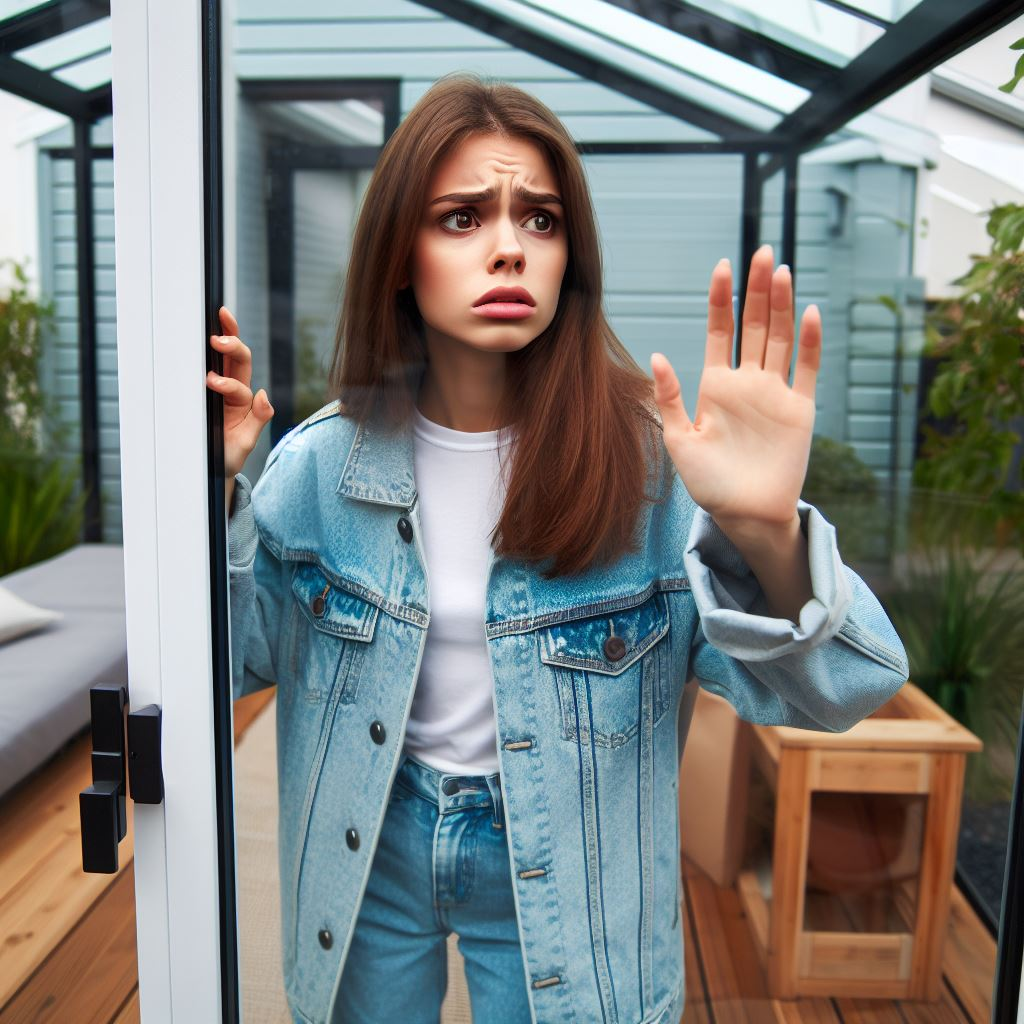
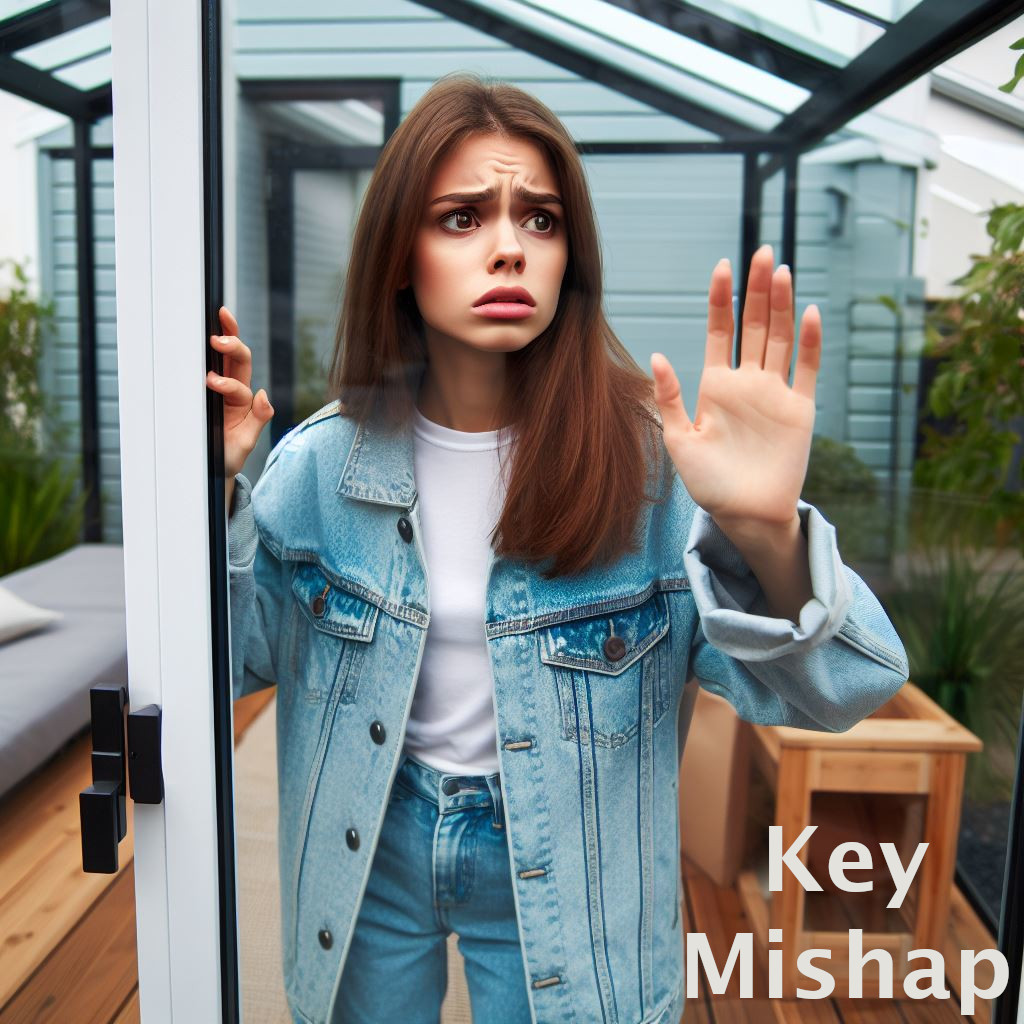
Switch to first three pre-release

Changed region(s): [[0.6562, 0.9062, 1.0, 1.0], [0.75, 0.8125, 0.9062, 0.875]]

diff --git a/index.html b/index.html
@@ -24,41 +24,25 @@
 
 <main>
     <section class="audio-play">
-        <img src="images/Banksy Challenged.jpg" alt="Title Image for Banksy Challenged">
-        <audio controls class="plausible-event-name=Banksy+Challenged">
+        <img src="images/Speed Dating.jpg" alt="Title Image for Speed Dating">
+        <audio controls class="plausible-event-name=Speed+Dating">
             <source src="audio/test_audio.mp3" type="audio/mpeg">
             Your browser does not support the audio element.
         </audio>
     </section>
 
     <section class="audio-play">
-        <img src="images/Door to Door.jpg" alt="Title Image for Door to Door">
-        <audio controls>
+        <img src="images/Almost Ready.jpg" alt="Title Image for Almost Ready">
+        <audio controls class="plausible-event-name=Almost+Ready">
             <source src="audio/test_audio.mp3" type="audio/mpeg">
             Your browser does not support the audio element.
         </audio>
     </section>
 
     <section class="audio-play">
-        <img src="images/Expensive Proceedings.jpg" alt="Title Image for Expensive Proceedings">
-        <audio controls>
+        <img src="images/Key Mishap.jpg" alt="Title Image for Key Mishap">
+        <audio controls class="plausible-event-name=Key+Mishap">
             <source src="audio/test_audio.mp3" type="audio/mpeg">
-            Your browser does not support the audio element.
-        </audio>
-    </section>
-
-    <section class="audio-play">
-        <img src="images/Meeting on a train.jpg" alt="Title Image for Meeting on a train">
-        <audio controls>
-            <source src="audio/test_audio.mp3" type="audio/mpeg">
-            Your browser does not support the audio element.
-        </audio>
-    </section>
-
-    <section class="audio-play">
-        <img src="images/The Receptionist.jpg" alt="Title Image for The Receptionist">
-        <audio controls>
-            <source src="audio/test.mp3" type="audio/mpeg">
             Your browser does not support the audio element.
         </audio>
     </section>
